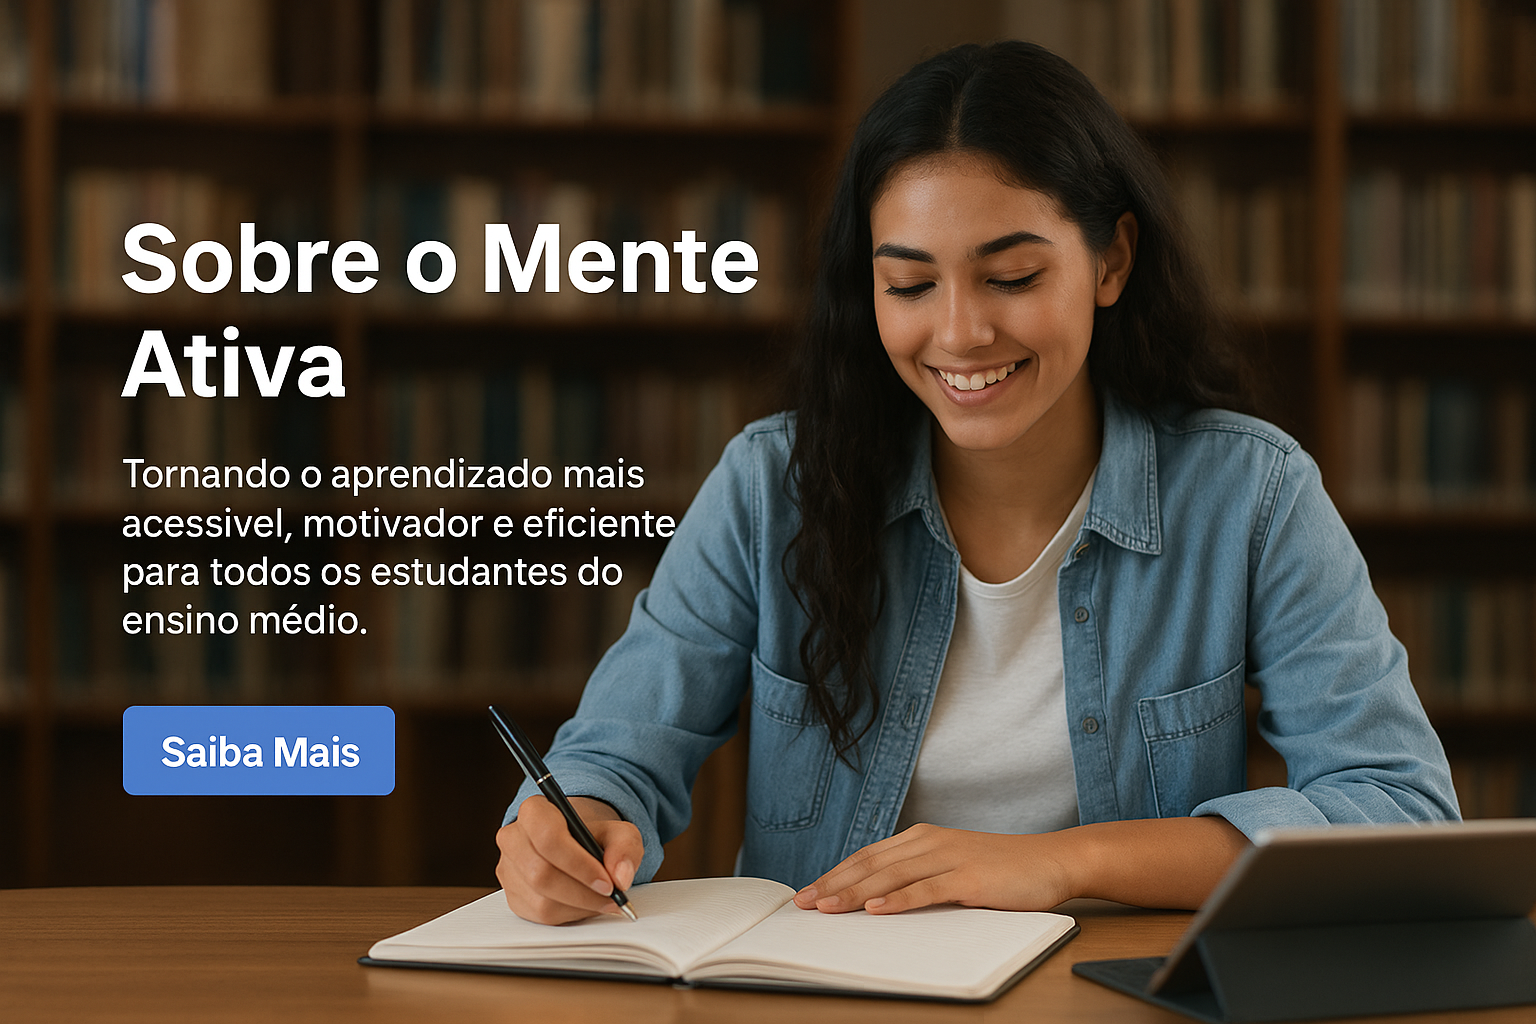
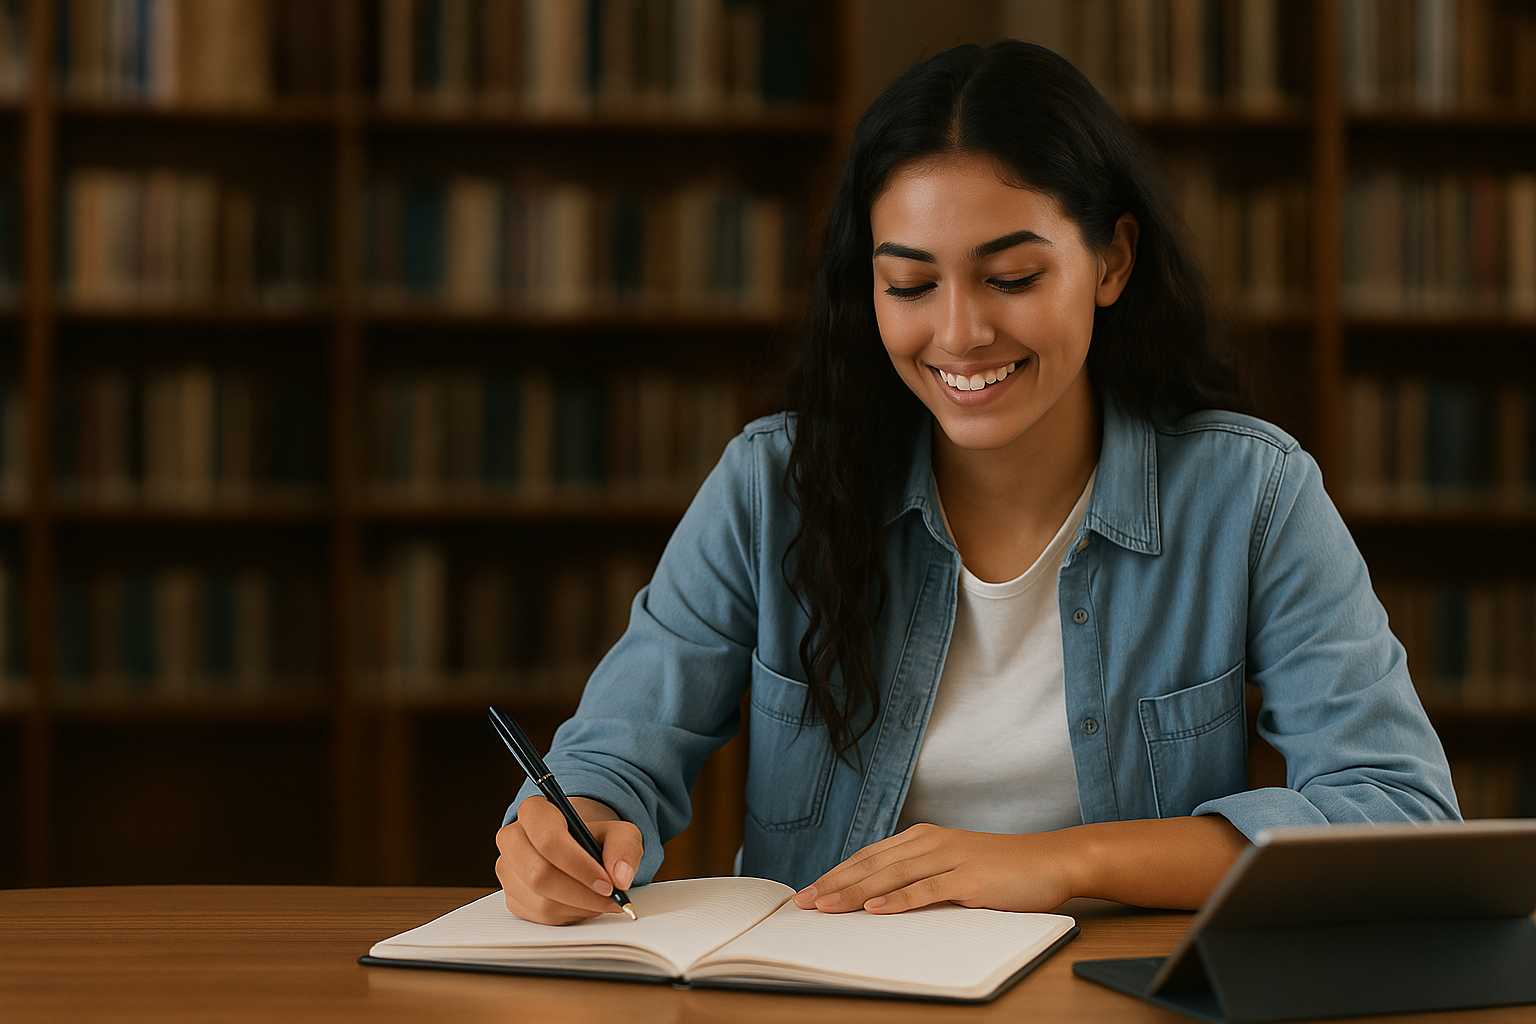
pag sobre finafizada

diff --git a/menteAtiva-project/src/pages/sobre/sobre.jsx b/menteAtiva-project/src/pages/sobre/sobre.jsx
@@ -1,17 +1,21 @@
 import style from "./sobre.module.css";
+import sobreImg from "/assets/sobre.png";
 
 const Sobre = () => {
   return (
-    <div className={style.Sobre}> 
+    <div className={style.Sobre}>
       <main>
-        <section>
+        <section
+          className={style.hero}
+          style={{ backgroundImage: `url(${sobreImg})` }}
+        >
           <div className={style.overlay}>
             <h1>Sobre o Mente Ativa</h1>
             <p>
               Tornando o aprendizado mais acessível, motivador e eficiente para
               todos os estudantes do ensino médio.
             </p>
-            <button className={style.btnHero}>Saiba Mais</button>
+            {/* <button className={style.btnHero}>Saiba Mais</button> */}
           </div>
         </section>
 
@@ -26,7 +30,6 @@ const Sobre = () => {
                 preparar para o ENEM.
               </p>
             </div>
-          
           </section>
 
           <section className={style.card}>

diff --git a/menteAtiva-project/src/pages/sobre/sobre.module.css b/menteAtiva-project/src/pages/sobre/sobre.module.css
@@ -4,11 +4,13 @@
 }
 
 .hero {
-  background-image: url("./assets/sobre.png"); /* Note a barra inicial */
+  background-image: url('/assets/SOBRE.png'); /* Note a barra inicial */
+  margin: 35px;
+  border-radius: 12px;
   background-size: cover;
   background-position: center;
   background-repeat: no-repeat;
-  height: 60vh;
+  height: 80vh;
   display: flex;
   align-items: center;
   justify-content: center;
@@ -19,7 +21,6 @@
 
 
 .overlay {
-  background: var(--azulEscuro);
   color: var(--branco);
   text-align: center;
   padding: 40px;
@@ -60,8 +61,10 @@
   gap: 40px;
 }
 
+
+
 .card {
-  background: #ffffff;
+  background: var(--branco);
   border-radius: 16px;
   padding: 28px;
   box-shadow: 0 4px 12px var(--azulEscuro);
